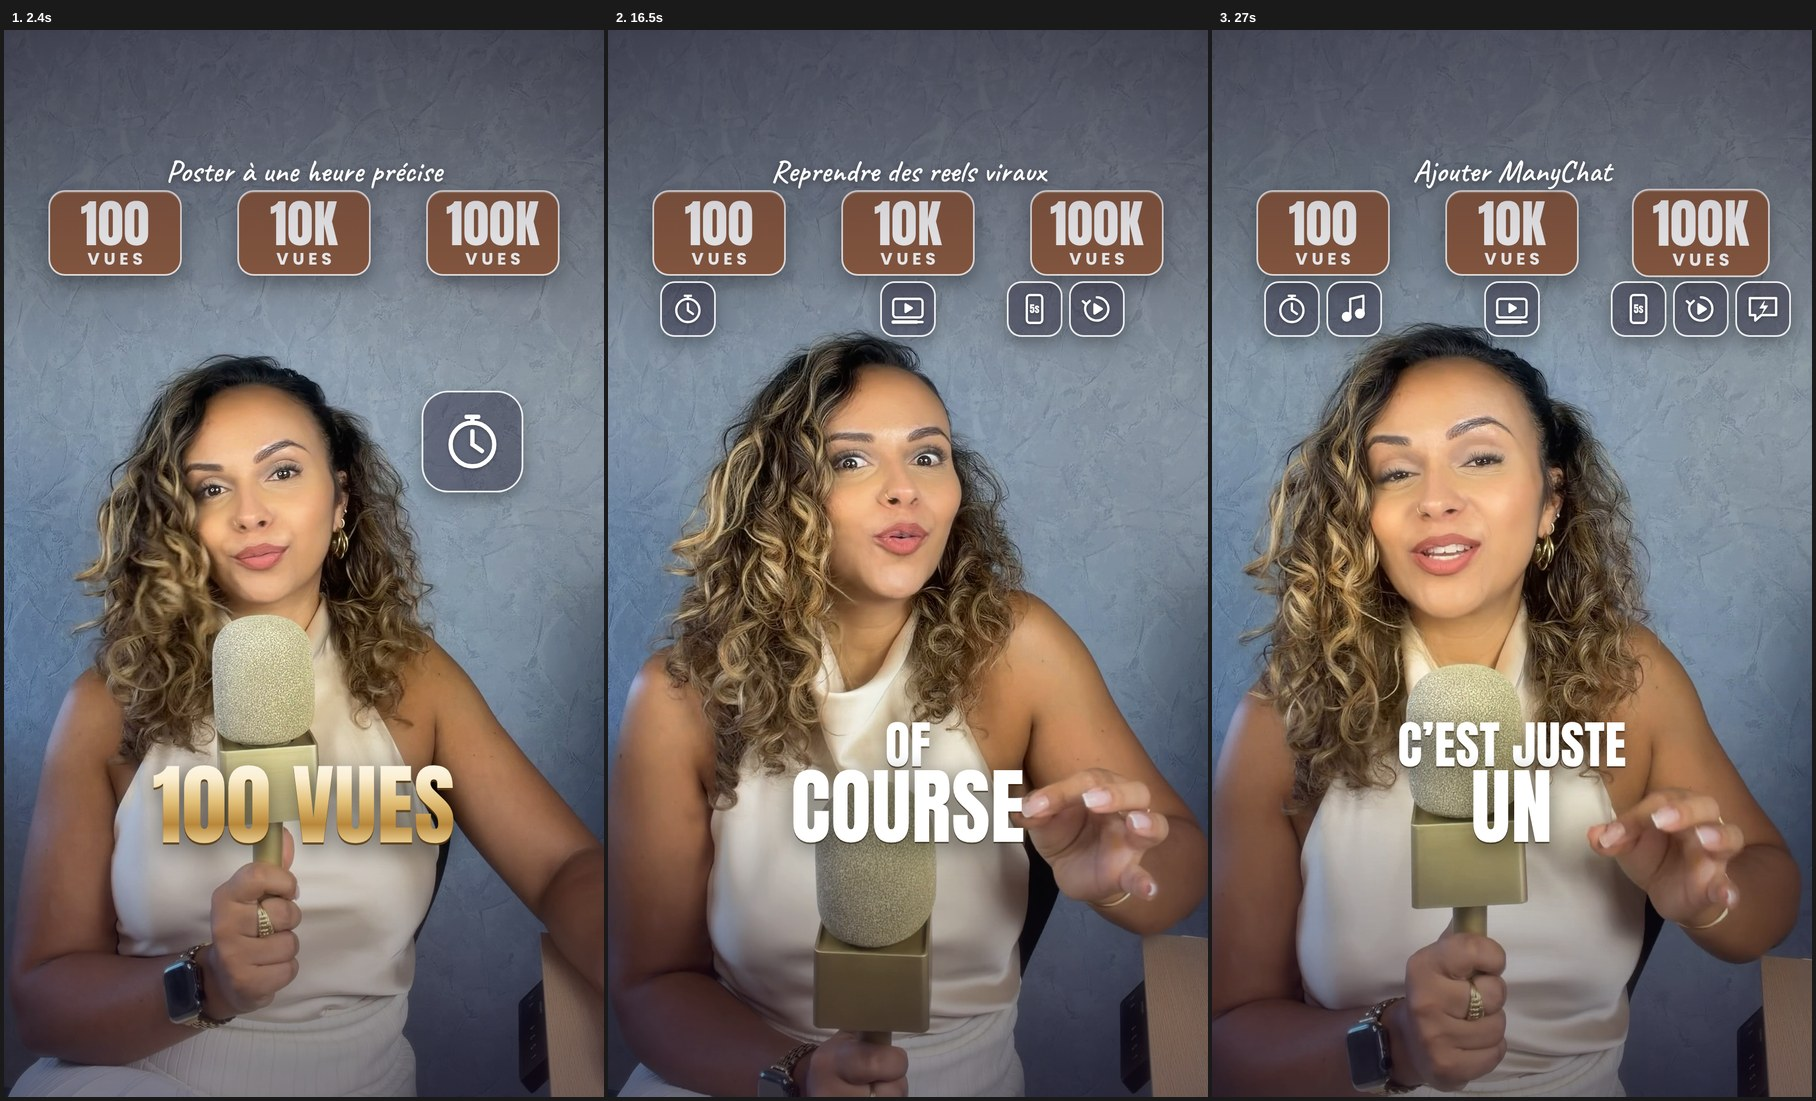
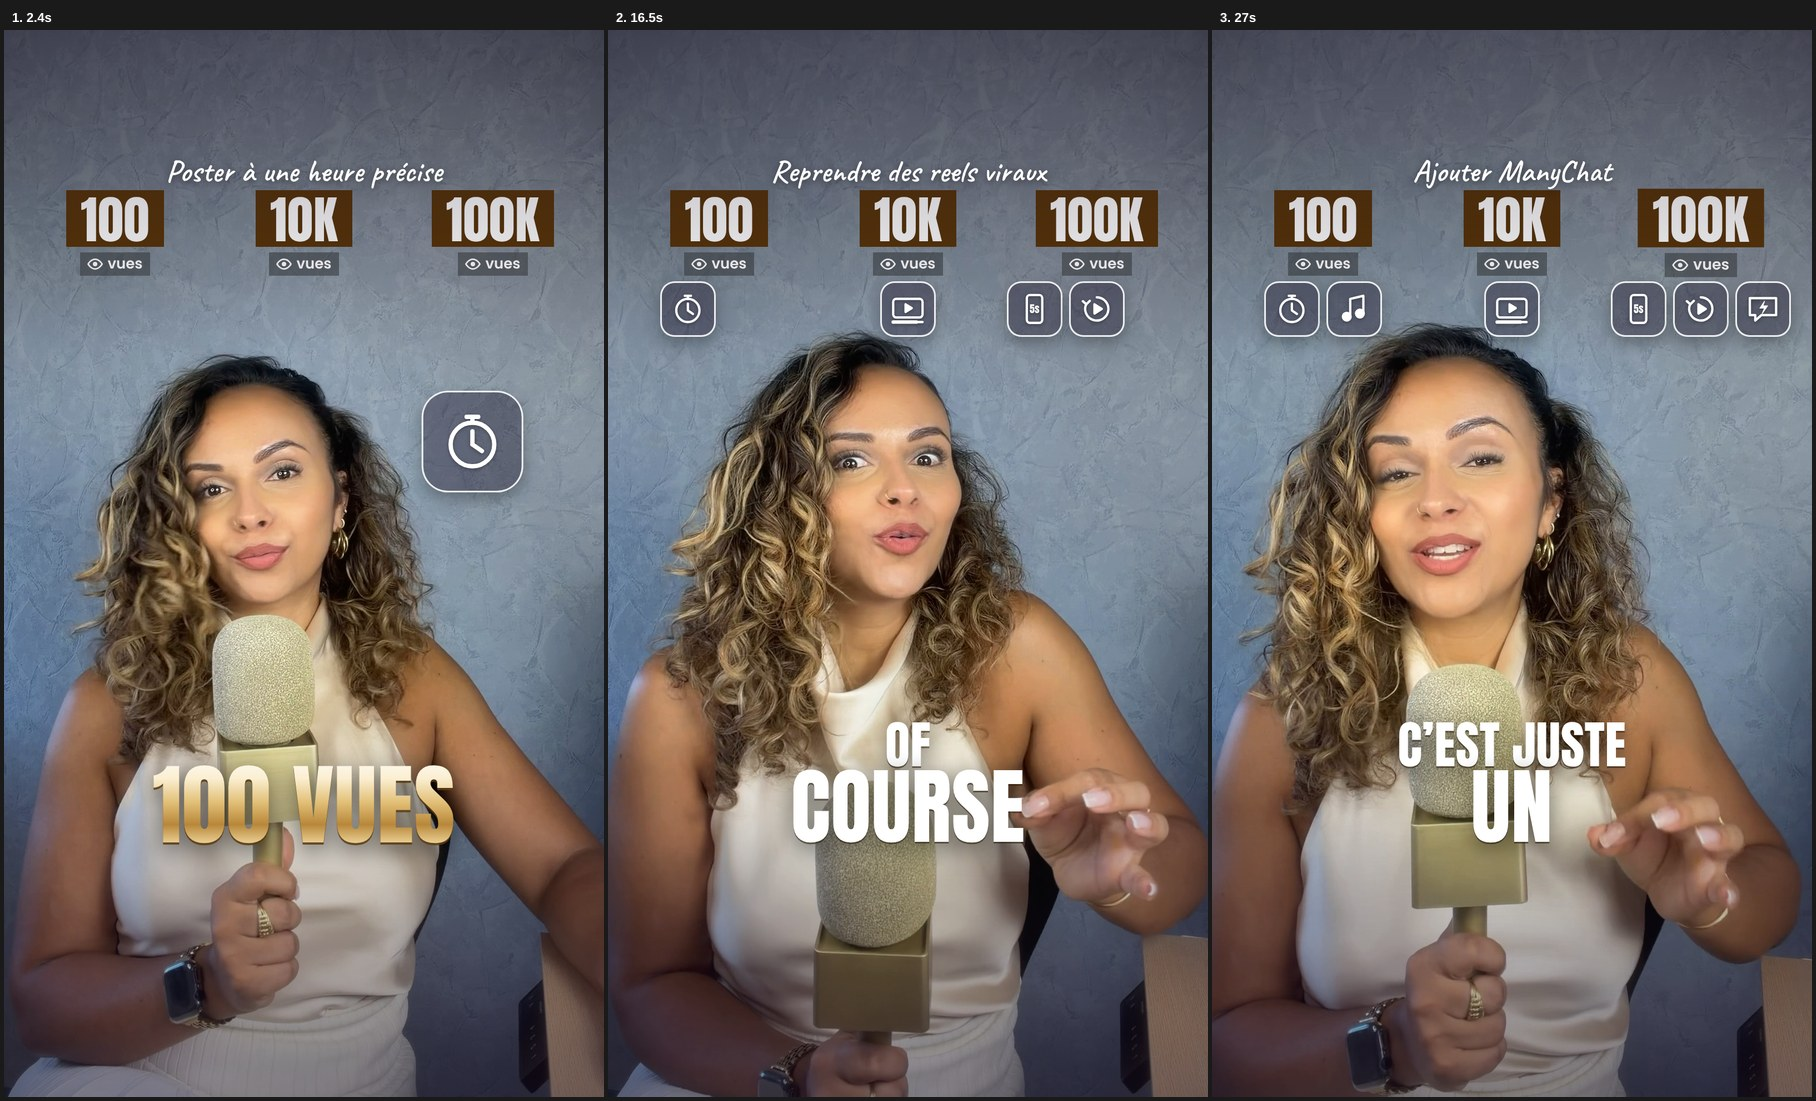
vues-classement test: numbers in her dark-brown blocks with a views chip
Claude-Session: https://claude.ai/code/session_019pwbzbkUo8jfmpgWNgx2Yp

diff --git a/reels/vues-classement/index.html b/reels/vues-classement/index.html
@@ -14,8 +14,9 @@ html,body{width:1080px;height:1920px;overflow:hidden;background:#000}
 #vig{position:absolute;inset:0;z-index:1;background:radial-gradient(120% 75% at 45% 38%,rgba(20,12,36,0) 50%,rgba(20,12,36,.42) 100%)}
 #shade{position:absolute;inset:0;z-index:1;background:linear-gradient(180deg,rgba(24,16,36,.40) 0%,rgba(24,16,36,0) 30%,rgba(24,16,36,0) 60%,rgba(24,16,36,.30) 100%)}
 .col{position:absolute;z-index:5;width:320px;text-align:center;color:#fff}
-.col .box{display:inline-block;min-width:240px;padding:12px 24px 12px;border-radius:30px;background:#8C5C41;border:3px solid rgba(255,255,255,.9);
-  box-shadow:0 14px 34px rgba(0,0,0,.35),inset 0 2px 0 rgba(255,255,255,.25)}
+.col .box{display:inline-block;padding:8px 26px 2px;background:#573307}
+.chip{display:flex;width:fit-content;align-items:center;gap:8px;margin:10px auto 0;padding:6px 14px 6px 12px;background:rgba(60,64,66,.62);
+  font:600 26px/1 Poppins;color:#fff}
 .num{font:400 92px/1 Anton;letter-spacing:.01em;display:inline-block;transform-origin:50% 60%;color:#fff}
 .vues{font:700 30px/1 Poppins;letter-spacing:.24em;margin-top:2px;padding-left:.24em}
 .title{position:absolute;left:0;right:0;top:226px;z-index:6;text-align:center;font:600 56px/1 Caveat;color:#fff;
@@ -77,9 +78,9 @@ html,body{width:1080px;height:1920px;overflow:hidden;background:#000}
   <video id="bgv" class="full" src="assets/aroll_graded.mp4" muted playsinline data-start="0" data-media-start="0" data-duration="36.500" data-track-index="0"></video>
   <div id="vig"></div><div id="shade"></div>
 <div id="board">
-<div id="col0" class="col" style="left:40px;top:288px"><div class="box"><div class="num">100</div><div class="vues">VUES</div></div></div>
-<div id="col1" class="col" style="left:380px;top:288px"><div class="box"><div class="num">10K</div><div class="vues">VUES</div></div></div>
-<div id="col2" class="col" style="left:720px;top:288px"><div class="box"><div class="num">100K</div><div class="vues">VUES</div></div></div>
+<div id="col0" class="col" style="left:40px;top:288px"><div class="box"><div class="num">100</div></div><div class="chip"><svg width="30" height="30" viewBox="0 0 24 24"><path d="M2 12s3.6-7 10-7 10 7 10 7-3.6 7-10 7S2 12 2 12z" fill="none" stroke="#fff" stroke-width="2.2"/><circle cx="12" cy="12" r="3.2" fill="#fff"/></svg><span>vues</span></div></div>
+<div id="col1" class="col" style="left:380px;top:288px"><div class="box"><div class="num">10K</div></div><div class="chip"><svg width="30" height="30" viewBox="0 0 24 24"><path d="M2 12s3.6-7 10-7 10 7 10 7-3.6 7-10 7S2 12 2 12z" fill="none" stroke="#fff" stroke-width="2.2"/><circle cx="12" cy="12" r="3.2" fill="#fff"/></svg><span>vues</span></div></div>
+<div id="col2" class="col" style="left:720px;top:288px"><div class="box"><div class="num">100K</div></div><div class="chip"><svg width="30" height="30" viewBox="0 0 24 24"><path d="M2 12s3.6-7 10-7 10 7 10 7-3.6 7-10 7S2 12 2 12z" fill="none" stroke="#fff" stroke-width="2.2"/><circle cx="12" cy="12" r="3.2" fill="#fff"/></svg><span>vues</span></div></div>
 </div>
 <div id="tt0" class="title">Poster à une heure précise</div>
 <div id="tt1" class="title">Vidéos courtes (5s)</div>

diff --git a/reels/vues-classement/build.py b/reels/vues-classement/build.py
@@ -68,6 +68,9 @@ ICONS = {   # white line icons on the gold card, 100x100 viewBox
 }
 
 
+EYE = ('<svg width="30" height="30" viewBox="0 0 24 24"><path d="M2 12s3.6-7 10-7 10 7 10 7-3.6 7-10 7S2 12 2 12z" fill="none" '
+       'stroke="#fff" stroke-width="2.2"/><circle cx="12" cy="12" r="3.2" fill="#fff"/></svg>')   # views eye, as on her own reels
+
 def show(sel, a, b):
     tw = [f"gsap.set('{sel}',{{autoAlpha:0}});", f"tl.set('{sel}',{{autoAlpha:1}},{a:.3f});"]
     if b < DUR - .01:
@@ -78,8 +81,8 @@ def show(sel, a, b):
 def board():
     html = ['<div id="board">']
     for k, (label, cx) in enumerate(COLS):
-        html.append(f'<div id="col{k}" class="col" style="left:{cx - 160}px;top:{NUM_TOP + 6}px"><div class="box"><div class="num">{label}</div>'
-                    f'<div class="vues">VUES</div></div></div>')
+        html.append(f'<div id="col{k}" class="col" style="left:{cx - 160}px;top:{NUM_TOP + 6}px"><div class="box"><div class="num">{label}</div></div>'
+                    f'<div class="chip">{EYE}<span>vues</span></div></div>')
     html.append('</div>')
     tw = ["gsap.set('#board',{autoAlpha:0});", "tl.fromTo('#board',{autoAlpha:0,y:-30},{autoAlpha:1,y:0,duration:.35,ease:'power3.out',immediateRender:false},0);"]
     return html, tw
@@ -203,8 +206,9 @@ html,body{{width:1080px;height:1920px;overflow:hidden;background:#000}}
 #vig{{position:absolute;inset:0;z-index:1;background:radial-gradient(120% 75% at 45% 38%,rgba(20,12,36,0) 50%,rgba(20,12,36,.42) 100%)}}
 #shade{{position:absolute;inset:0;z-index:1;background:linear-gradient(180deg,rgba(24,16,36,.40) 0%,rgba(24,16,36,0) 30%,rgba(24,16,36,0) 60%,rgba(24,16,36,.30) 100%)}}
 .col{{position:absolute;z-index:5;width:320px;text-align:center;color:#fff}}
-.col .box{{display:inline-block;min-width:240px;padding:12px 24px 12px;border-radius:30px;background:#8C5C41;border:3px solid rgba(255,255,255,.9);
-  box-shadow:0 14px 34px rgba(0,0,0,.35),inset 0 2px 0 rgba(255,255,255,.25)}}
+.col .box{{display:inline-block;padding:8px 26px 2px;background:#573307}}
+.chip{{display:flex;width:fit-content;align-items:center;gap:8px;margin:10px auto 0;padding:6px 14px 6px 12px;background:rgba(60,64,66,.62);
+  font:600 26px/1 Poppins;color:#fff}}
 .num{{font:400 92px/1 Anton;letter-spacing:.01em;display:inline-block;transform-origin:50% 60%;color:#fff}}
 .vues{{font:700 30px/1 Poppins;letter-spacing:.24em;margin-top:2px;padding-left:.24em}}
 .title{{position:absolute;left:0;right:0;top:226px;z-index:6;text-align:center;font:600 56px/1 Caveat;color:#fff;
